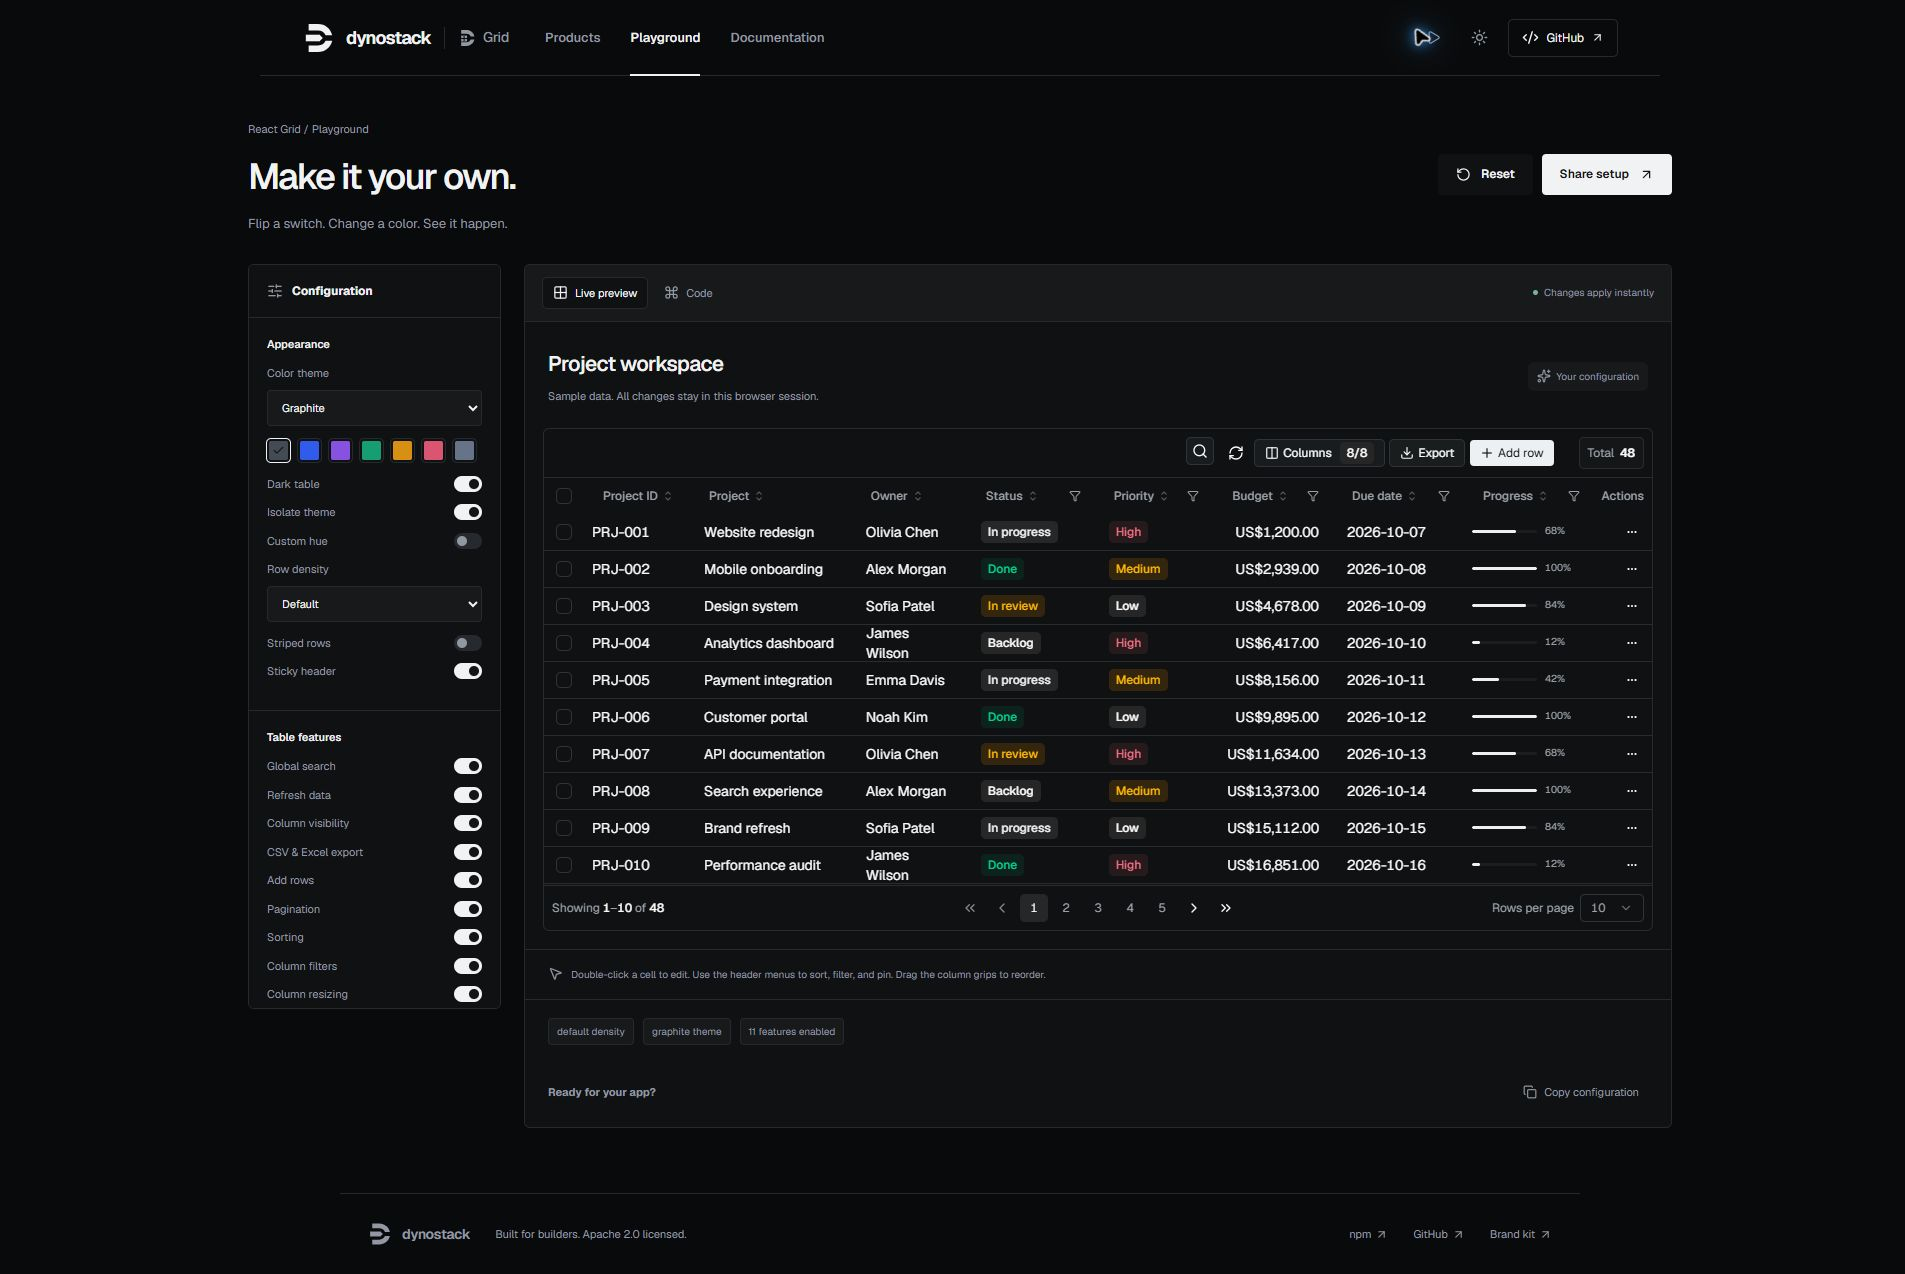
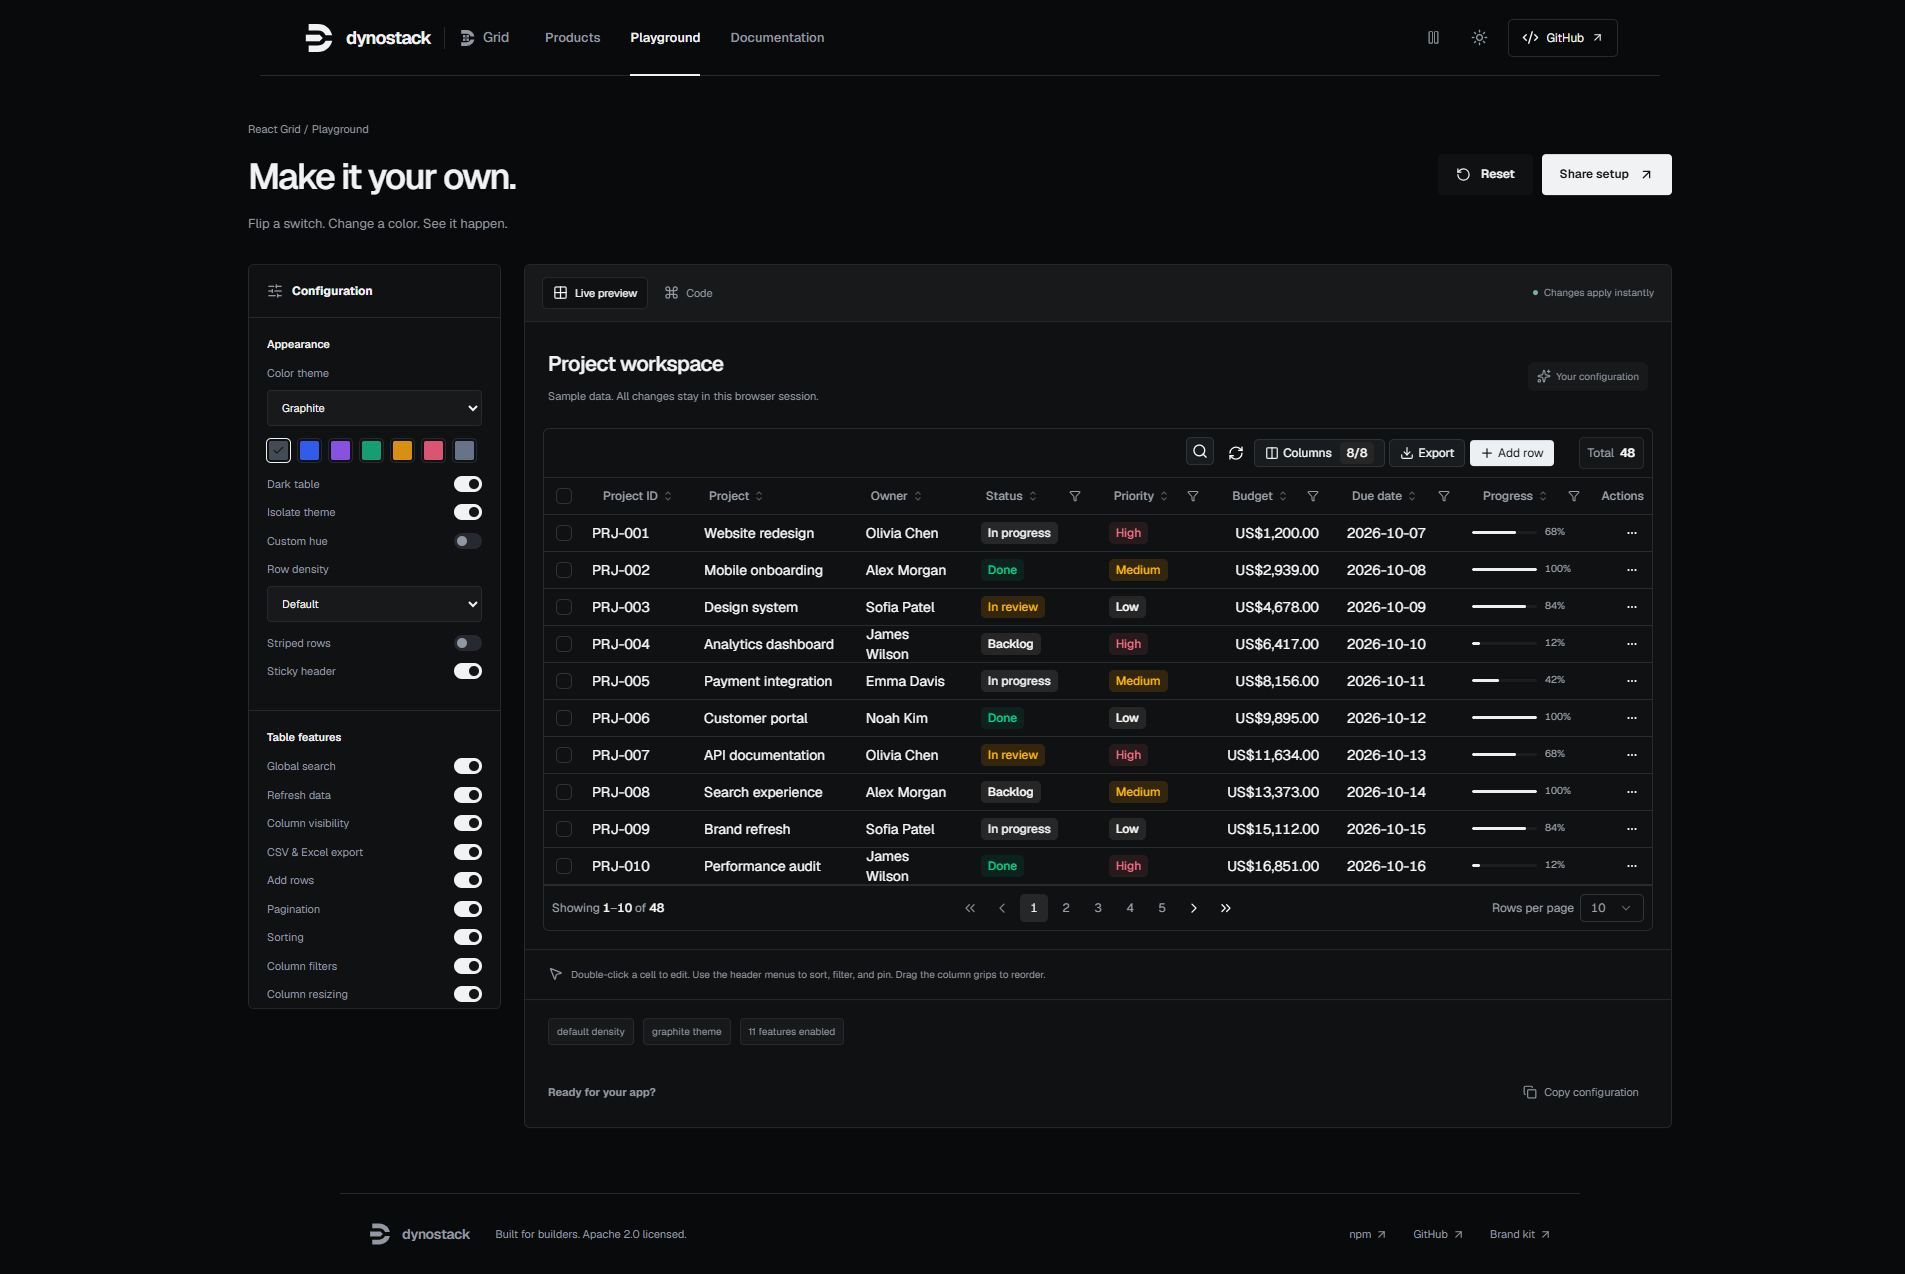
Center Grid tiles inside the brand mark and resolve initial docs anchors

diff --git a/showcase/src/App.tsx b/showcase/src/App.tsx
@@ -1000,6 +1000,11 @@ function Docs() {
     const observer = new ResizeObserver(schedule)
     const content = document.querySelector(".docs-content")
     if (content) observer.observe(content)
+    // The browser may resolve the hash before React renders the sections.
+    const initialAnchor = sections.find(
+      (section) => section && `#${section.id}` === location.hash
+    )
+    initialAnchor?.scrollIntoView({ behavior: "instant", block: "start" })
     schedule()
     return () => {
       cancelAnimationFrame(frame)
